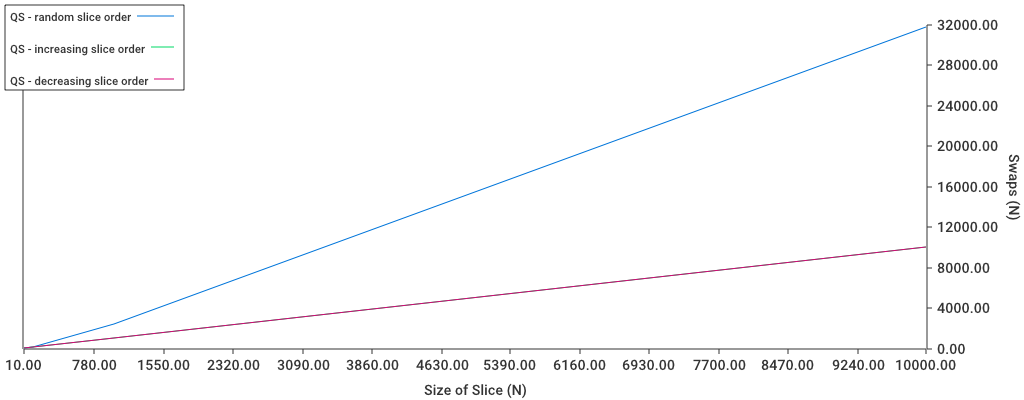
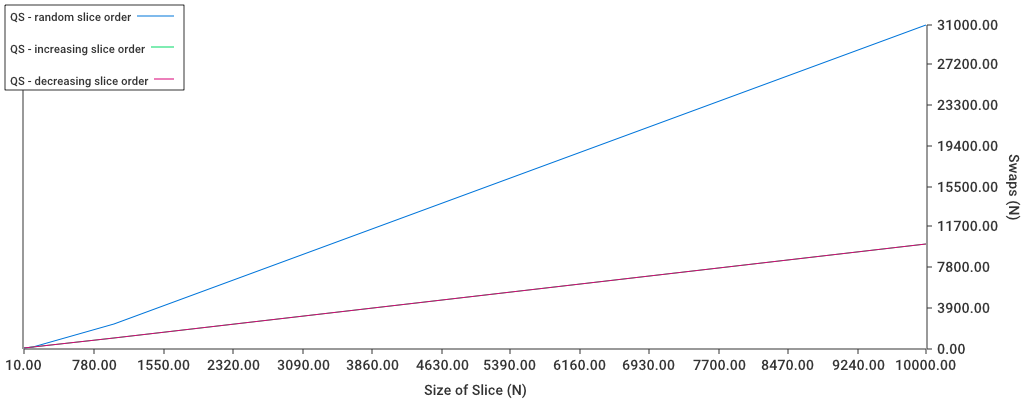
added ms calls

diff --git a/2_sortingo/main.go b/2_sortingo/main.go
@@ -31,15 +31,21 @@ func decreasingSlicegenerator(slice []int, size int) []int {
 	return slice
 }
 
-func performTesting(arr []int, n int, order string) U.Resources {
+func performTesting(arr []int, n int, order string, algorithm string) U.Resources {
 	var resources U.Resources
+	var start time.Time
+	var end time.Duration
 	U.Swaps, U.Comparisons = 0, 0
 
-	start := time.Now()
-	S.QuickSort(arr, 0, n-1)
-	// S.MergeSort(arr)
-	end := time.Since(start)
-
+	if algorithm == "QS" {
+		start = time.Now()
+		S.QuickSort(arr, 0, n-1)
+		end = time.Since(start)
+	} else if algorithm == "MS" {
+		start = time.Now()
+		S.MergeSort(arr)
+		end = time.Since(start)
+	}
 	resources.SortingOrder = order
 	resources.Size = n
 	resources.Time = end
@@ -50,44 +56,87 @@ func performTesting(arr []int, n int, order string) U.Resources {
 }
 
 func main() {
-	var qSRandomSliceResources, qSIncreasingSliceResources, qSDecreasingSliceResources []U.Resources
+	var RandomSliceResources, IncreasingSliceResources, DecreasingSliceResources []U.Resources
 	var table string
 
 	var repetitions int = 4
 	var iterations int = 0
 	var n int = 10
 
+	var algName string = "QS"
+	// -----------------------------------------------QS---------------------------------------------
+
 	for iterations < repetitions {
 		arr := make([]int, n, n)
 
 		randomSlicegenerator(arr, n)
 		// Resources taken by QS for random input
-		res1 := performTesting(arr, n, "random")
-		qSRandomSliceResources = append(qSRandomSliceResources, res1)
+		res1 := performTesting(arr, n, "random", algName)
+		RandomSliceResources = append(RandomSliceResources, res1)
 
 		increasingSlicegenerator(arr, n)
 		// Resources taken by QS for increasing input
-		res2 := performTesting(arr, n, "increasing")
-		qSIncreasingSliceResources = append(qSIncreasingSliceResources, res2)
+		res2 := performTesting(arr, n, "increasing", algName)
+		IncreasingSliceResources = append(IncreasingSliceResources, res2)
 
 		decreasingSlicegenerator(arr, n)
 		// Resources taken by QS for decreasing input
-		res3 := performTesting(arr, n, "decreasing")
-		qSDecreasingSliceResources = append(qSDecreasingSliceResources, res3)
+		res3 := performTesting(arr, n, "decreasing", algName)
+		DecreasingSliceResources = append(DecreasingSliceResources, res3)
 
 		n *= 10
 		iterations++
 	}
-	table = U.ToTable(qSRandomSliceResources, "QS - RandomSliceOutput")
-	U.ToCSV(table, "RandomSliceOutput")
+	table = U.ToTable(RandomSliceResources, algName+" - RandomSliceOutput")
+	U.ToCSV(table, algName+"RandomSliceOutput")
 
-	table = U.ToTable(qSIncreasingSliceResources, "QS - IncreasingSliceOutput")
-	U.ToCSV(table, "IncreasingSliceOutput")
+	table = U.ToTable(IncreasingSliceResources, algName+" - IncreasingSliceOutput")
+	U.ToCSV(table, algName+"IncreasingSliceOutput")
 
-	table = U.ToTable(qSDecreasingSliceResources, "QS - DecreasingSliceOutput")
-	U.ToCSV(table, "DecreasingSliceOutput")
+	table = U.ToTable(DecreasingSliceResources, algName+" - DecreasingSliceOutput")
+	U.ToCSV(table, algName+"DecreasingSliceOutput")
 
-	U.DrawTimeChart(qSRandomSliceResources, qSIncreasingSliceResources, qSDecreasingSliceResources, "QS")
-	U.DrawSwapsChart(qSRandomSliceResources, qSIncreasingSliceResources, qSDecreasingSliceResources, "QS")
-	U.DrawComparisonsChart(qSRandomSliceResources, qSIncreasingSliceResources, qSDecreasingSliceResources, "QS")
+	U.DrawTimeChart(RandomSliceResources, IncreasingSliceResources, DecreasingSliceResources, algName)
+	U.DrawSwapsChart(RandomSliceResources, IncreasingSliceResources, DecreasingSliceResources, algName)
+	U.DrawComparisonsChart(RandomSliceResources, IncreasingSliceResources, DecreasingSliceResources, algName)
+
+	// -----------------------------------------------MS---------------------------------------------
+
+	RandomSliceResources, IncreasingSliceResources, DecreasingSliceResources = nil, nil, nil
+	repetitions = 4
+	iterations = 0
+	n = 10
+
+	algName = "MS"
+
+	for iterations < repetitions {
+		arr := make([]int, n, n)
+
+		randomSlicegenerator(arr, n)
+		res1 := performTesting(arr, n, "random", algName)
+		RandomSliceResources = append(RandomSliceResources, res1)
+
+		increasingSlicegenerator(arr, n)
+		res2 := performTesting(arr, n, "increasing", algName)
+		IncreasingSliceResources = append(IncreasingSliceResources, res2)
+
+		decreasingSlicegenerator(arr, n)
+		res3 := performTesting(arr, n, "decreasing", algName)
+		DecreasingSliceResources = append(DecreasingSliceResources, res3)
+
+		n *= 10
+		iterations++
+	}
+	table = U.ToTable(RandomSliceResources, algName+" - RandomSliceOutput")
+	U.ToCSV(table, algName+"RandomSliceOutput")
+
+	table = U.ToTable(IncreasingSliceResources, algName+" - IncreasingSliceOutput")
+	U.ToCSV(table, algName+"IncreasingSliceOutput")
+
+	table = U.ToTable(DecreasingSliceResources, algName+" - DecreasingSliceOutput")
+	U.ToCSV(table, algName+"DecreasingSliceOutput")
+
+	U.DrawTimeChart(RandomSliceResources, IncreasingSliceResources, DecreasingSliceResources, algName)
+	U.DrawSwapsChart(RandomSliceResources, IncreasingSliceResources, DecreasingSliceResources, algName)
+	U.DrawComparisonsChart(RandomSliceResources, IncreasingSliceResources, DecreasingSliceResources, algName)
 }
